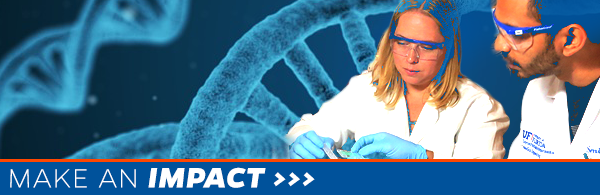
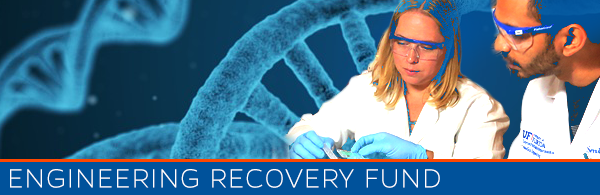
Add images

Changed region(s): [[0.0, 0.8615, 0.75, 0.9846]]

diff --git a/newengineer/2020-june/newengineer-2020-june.html b/newengineer/2020-june/newengineer-2020-june.html
@@ -458,7 +458,7 @@
 											</tr>
 											<tr>
 												<td class="body">
-													<a href="https://www.eng.ufl.edu/newengineer/research-innovation/15m-technology-transition-center-celebrates-virtual-kickoff/?utm_source=newsletter&utm_campaign=jun2020newsletter&utm_medium=email&utm_content=image" target="_blank"><img class="story-image" src="https://www.eng.ufl.edu/eblasts/newengineer/2020-june/images/eci-tc.png" alt="" border="0" width="270" height="180" style="border:none; outline:none;"></a>
+													<a href="https://www.eng.ufl.edu/newengineer/research-innovation/15m-technology-transition-center-celebrates-virtual-kickoff/?utm_source=newsletter&utm_campaign=jun2020newsletter&utm_medium=email&utm_content=image" target="_blank"><img class="story-image" src="https://www.eng.ufl.edu/eblasts/newengineer/2020-june/images/eci-tc.png" alt="Image of a circuit board" border="0" width="270" height="180" style="border:none; outline:none;"></a>
 												</td>
 											</tr>
 											<tr>
@@ -486,7 +486,7 @@
 											</tr>
 											<tr>
 												<td class="body">
-													<a href="https://www.eng.ufl.edu/newengineer/research-innovation/covid-19-research-roundup/?utm_source=newsletter&utm_campaign=jun2020newsletter&utm_medium=email&utm_content=image" target="_blank"><img class="story-image" src="https://www.eng.ufl.edu/eblasts/newengineer/2020-june/images/covid-roundup.png" alt="" border="0" width="270" height="180" style="border:none; outline:none;"></a>
+													<a href="https://www.eng.ufl.edu/newengineer/research-innovation/covid-19-research-roundup/?utm_source=newsletter&utm_campaign=jun2020newsletter&utm_medium=email&utm_content=image" target="_blank"><img class="story-image" src="https://www.eng.ufl.edu/eblasts/newengineer/2020-june/images/covid-roundup.png" alt="Magnified view of the novel coronavirus" border="0" width="270" height="180" style="border:none; outline:none;"></a>
 												</td>
 											</tr>
 											<tr>
@@ -519,7 +519,7 @@
 											</tr>
 											<tr>
 												<td class="body">
-													<a href="https://www.eng.ufl.edu/newengineer/honors-awards/uf-engineers-receive-nsf-early-career-awards-to-support-innovative-research/" target="_blank"><img class="story-image" src="https://www.eng.ufl.edu/eblasts/newengineer/2020-june/images/career-awards.png" alt="David Hibbitts, Ph.D., CHE" border="0" width="270" height="180" style="border:none; outline:none;"></a>
+													<a href="https://www.eng.ufl.edu/newengineer/honors-awards/uf-engineers-receive-nsf-early-career-awards-to-support-innovative-research/" target="_blank"><img class="story-image" src="https://www.eng.ufl.edu/eblasts/newengineer/2020-june/images/career-awards.png" alt="2020 CAREER Awards recipients" border="0" width="270" height="180" style="border:none; outline:none;"></a>
 												</td>
 											</tr>
 											<tr>
@@ -549,7 +549,7 @@
 											</tr>
 											<tr>
 												<td class="body">
-													<a href="https://www.eng.ufl.edu/newengineer/news/gator100-celebrates-the-worlds-fastest-growing-gator-companies-and-honors-uf-engineering-alumnus-scott-pressly-with-the-pinnacle-award/?utm_source=newsletter&utm_campaign=jun2020newsletter&utm_medium=email&utm_content=image" target="_blank"><img class="story-image" src="https://www.eng.ufl.edu/eblasts/newengineer/2020-june/images/pressly.png" alt="" border="0" width="270" height="180" style="border:none; outline:none;"></a>
+													<a href="https://www.eng.ufl.edu/newengineer/news/gator100-celebrates-the-worlds-fastest-growing-gator-companies-and-honors-uf-engineering-alumnus-scott-pressly-with-the-pinnacle-award/?utm_source=newsletter&utm_campaign=jun2020newsletter&utm_medium=email&utm_content=image" target="_blank"><img class="story-image" src="https://www.eng.ufl.edu/eblasts/newengineer/2020-june/images/scott-pressly.png" alt="Scott Pressly (B.S. CHE &rsquo;90)" border="0" width="270" height="180" style="border:none; outline:none;"></a>
 												</td>
 											</tr>
 											<tr>
@@ -581,7 +581,7 @@
 											</tr>
 											<tr>
 												<td class="body">
-													<a href="https://news.ufl.edu/2020/05/nvidia/" target="_blank"><img class="story-image" src="https://www.eng.ufl.edu/eblasts/newengineer/2020-june/images/nvidia.png" alt="Ed Phelps, Ph.D., BME" border="0" width="270" height="180" style="border:none; outline:none;"></a>
+													<a href="https://news.ufl.edu/2020/05/nvidia/" target="_blank"><img class="story-image" src="https://www.eng.ufl.edu/eblasts/newengineer/2020-june/images/nvidia.png" alt="NVIDIA DGX A100 System - inside view" border="0" width="270" height="180" style="border:none; outline:none;"></a>
 												</td>
 											</tr>
 											<tr>
@@ -611,7 +611,7 @@
 											</tr>
 											<tr>
 												<td class="body">
-													<a href="https://www.eng.ufl.edu/newengineer/news/industrial-systems-engineering-student-wins-big-in-2020-big-idea-competition/?utm_source=newsletter&utm_campaign=jun2020newsletter&utm_medium=email&utm_content=image" target="_blank"><img class="story-image" src="https://www.eng.ufl.edu/eblasts/newengineer/2020-june/images/hurricane-rebuilding-reform.png" alt="Engineers from the Structural Extreme Events through Reconnaissance research group inspected buildings damaged after the hurricane to capture how failures happened. (photo credit: Justin Marshall)" border="0" width="270" height="180" style="border:none; outline:none;"></a>
+													<a href="https://www.eng.ufl.edu/newengineer/news/industrial-systems-engineering-student-wins-big-in-2020-big-idea-competition/?utm_source=newsletter&utm_campaign=jun2020newsletter&utm_medium=email&utm_content=image" target="_blank"><img class="story-image" src="https://www.eng.ufl.edu/eblasts/newengineer/2020-june/images/sheldon-barrett.png" alt="Sheldon Barrett" border="0" width="270" height="180" style="border:none; outline:none;"></a>
 												</td>
 											</tr>
 											<tr>
@@ -621,7 +621,7 @@
 											</tr>
 											<tr>
 												<td class="body">
-													Sheldon Barrett, who graduates this spring with a Bachelor of Science in Industrial and Systems Engineering, took home the first prize of $25,000 in the <a href="https://www.eng.ufl.edu/newengineer/news/industrial-systems-engineering-student-wins-big-in-2020-big-idea-competition/?utm_source=newsletter&utm_campaign=jun2020newsletter&utm_medium=email&utm_content=text" target="_blank">2020 Big Idea Gator Business Plan Competition.</a>.  Barrett founded and leads Cocovana, a tropical lifestyle company that promotes a healthier lifestyle and sustainability.
+													Sheldon Barrett, who graduates this spring with a Bachelor of Science in Industrial and Systems Engineering, took home the first prize of $25,000 in the <a href="https://www.eng.ufl.edu/newengineer/news/industrial-systems-engineering-student-wins-big-in-2020-big-idea-competition/?utm_source=newsletter&utm_campaign=jun2020newsletter&utm_medium=email&utm_content=text" target="_blank">2020 Big Idea Gator Business Plan Competition.</a>. Barrett founded and leads Cocovana, a tropical lifestyle company that promotes a healthier lifestyle and sustainability.
 												</td>
 											</tr>
 										</table>
@@ -643,7 +643,7 @@
 											</tr>
 											<tr>
 												<td class="body">
-													<a href="https://www.eng.ufl.edu/students/students/career-services/alumni-support/?utm_source=newsletter&utm_medium=email&utm_campaign=jun2020newsletter&utm_content=img" target="_blank"><img class="story-image" src="https://www.eng.ufl.edu/eblasts/newengineer/2020-june/images/online-masters.png" alt="Online engineering graduate education program ranked #15 by U.S. News &amp; World Report" border="0" width="270" height="180" style="border:none; outline:none;"></a>
+													<a href="https://www.eng.ufl.edu/students/students/career-services/alumni-support/?utm_source=newsletter&utm_medium=email&utm_campaign=jun2020newsletter&utm_content=img" target="_blank"><img class="story-image" src="https://www.eng.ufl.edu/eblasts/newengineer/2020-june/images/career-services.png" alt="Online engineering graduate education program ranked #15 by U.S. News &amp; World Report" border="0" width="270" height="180" style="border:none; outline:none;"></a>
 												</td>
 											</tr>
 											<tr>
@@ -685,7 +685,7 @@
 											</tr>
 											<tr>
 												<td class="body">
-													<a href="https://www.eng.ufl.edu/newengineer/honors-awards/two-uf-engineers-chosen-for-florida-inventors-hall-of-fame/?utm_source=newsletter&utm_campaign=jun2020newsletter&utm_medium=email&utm_content=image" target="_blank"><img class="story-image" src="https://www.eng.ufl.edu/eblasts/newengineer/2020-june/images/lutza.png" alt="Curtis Taylor, Ph.D. and President Fuchs with Thomas Lutza holding award" border="0" width="270" height="180" style="border:none; outline:none;"></a>
+													<a href="https://www.eng.ufl.edu/newengineer/honors-awards/two-uf-engineers-chosen-for-florida-inventors-hall-of-fame/?utm_source=newsletter&utm_campaign=jun2020newsletter&utm_medium=email&utm_content=image" target="_blank"><img class="story-image" src="https://www.eng.ufl.edu/eblasts/newengineer/2020-june/images/inventors.png" alt="Christopher Batich, Ph.D., and Christine Schmidt, Ph.D." border="0" width="270" height="180" style="border:none; outline:none;"></a>
 												</td>
 											</tr>
 											<tr>
@@ -706,17 +706,12 @@
 					</tr>
 					<tr>
 						<td class="img">
-							<a href="https://www.uff.ufl.edu/giving-opportunities/000661-engineering-development-fund/" target="_blank"><img src="https://www.eng.ufl.edu/eblasts/newengineer/2020-june/images/giving-banner.png" width="600" height="195" border="0" align="left" class="header-image" alt="Make an Impact" /></a>
+							<a href="https://www.uff.ufl.edu/giving-opportunities/000661-engineering-development-fund/" target="_blank"><img src="https://www.eng.ufl.edu/eblasts/newengineer/2020-june/images/giving-banner.png" width="600" height="195" border="0" align="left" class="header-image" alt="Engineering Recovery Fund" /></a>
 						</td>
 					</tr>
 					<tr>
 						<td class="content-container" bgcolor="#ffffff">
 							<table border="0" width="100%" cellpadding="0" cellspacing="0" style="border-collapse:collapse;">
-								<tr>
-									<td class="h2" valign="top" align="center">
-										Engineering Recovery Fund
-									</td>
-								</tr>
 								<tr>
 									<td class="body">
 										As people gradually return to the UF campus, we would like to call on your support to help bring their labs back online with equipment repairs and supply replenishments, and to help students whose work has been adversely affected by disruption caused by COVID-19. Be a part of the Engineering Recovery process. 
